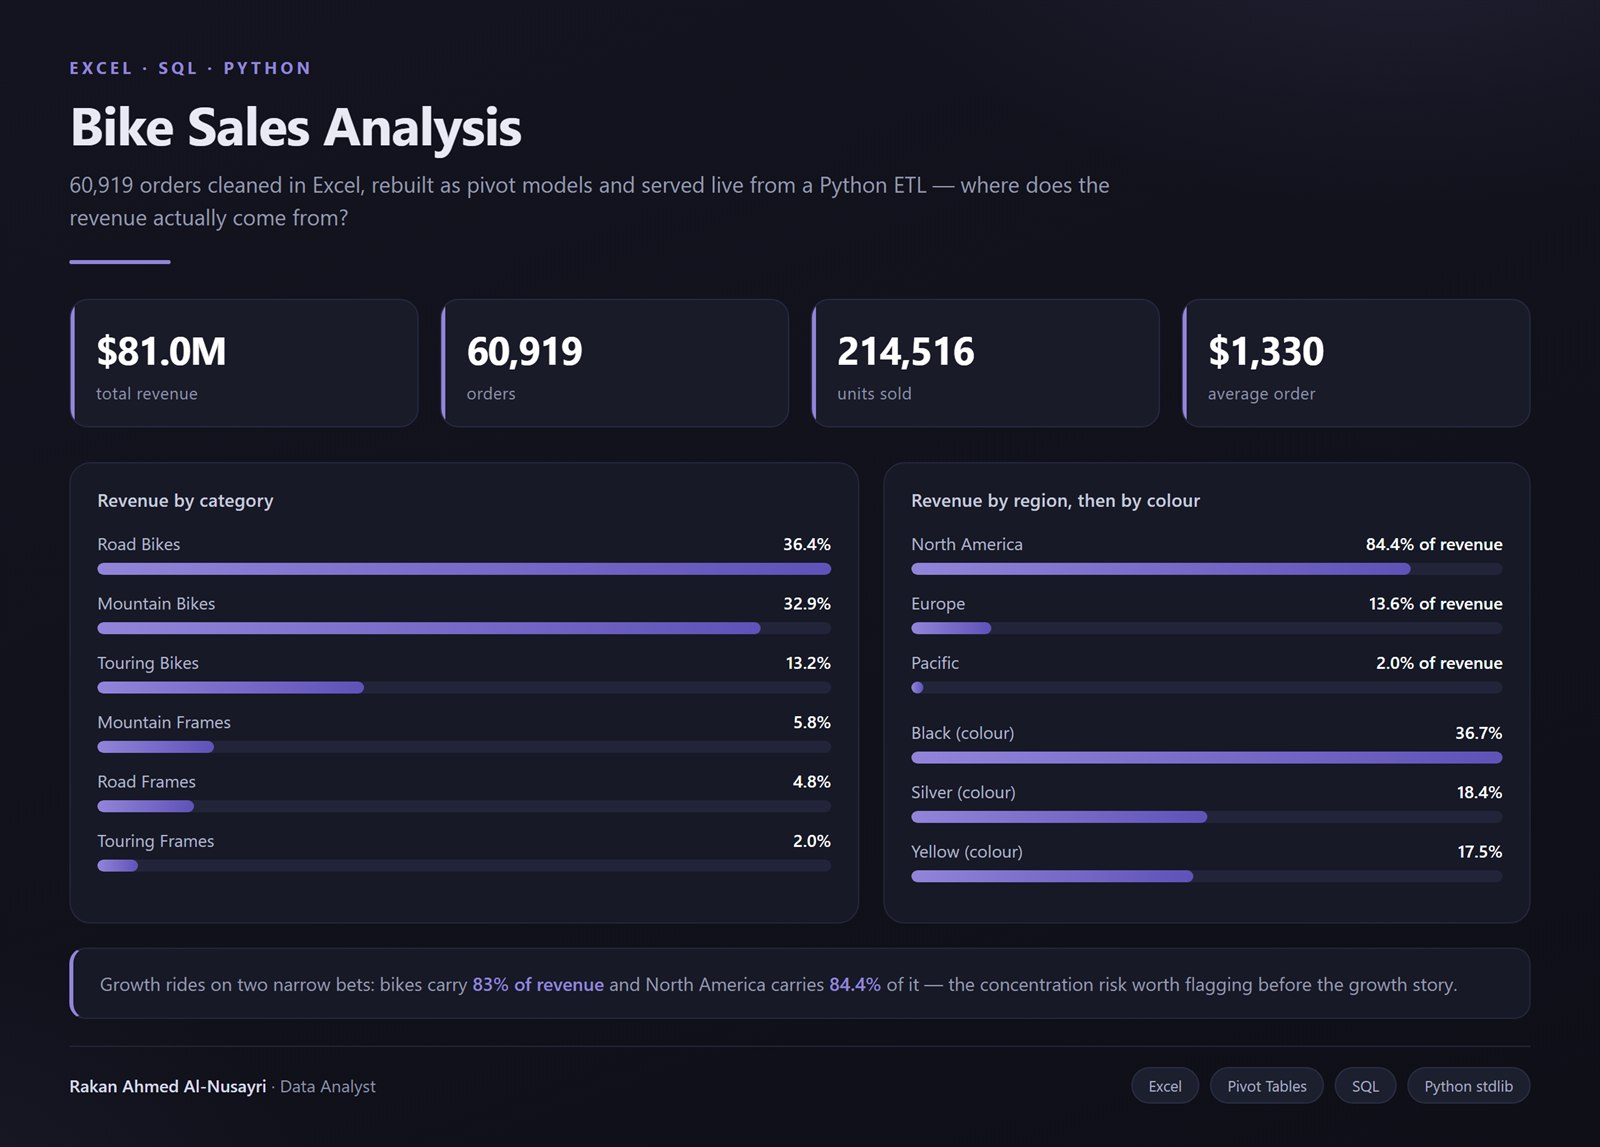
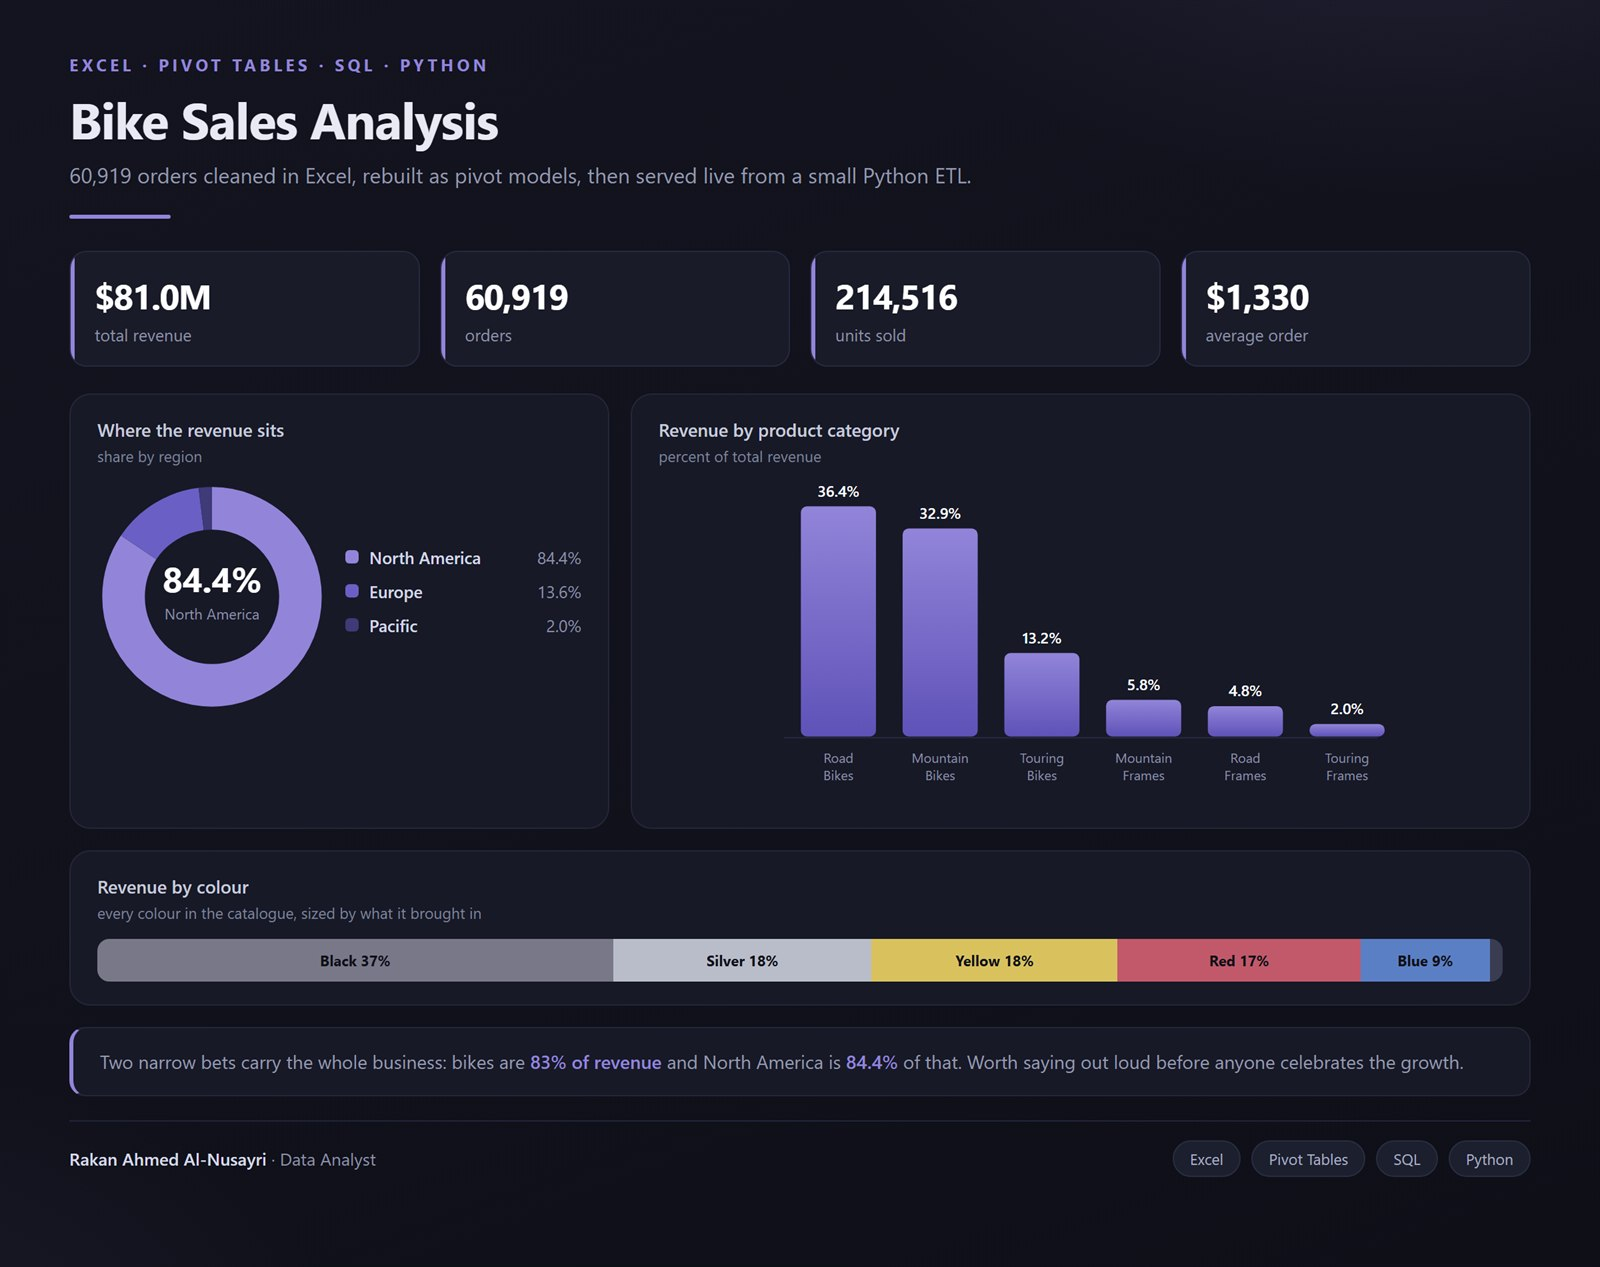
Rewrite README and rebuild the preview chart

diff --git a/README.md b/README.md
@@ -1,53 +1,59 @@
-# Bike Sales Analysis Dashboard
-
-تحليل مبيعات درّاجات — 60,919 طلبًا، من التنظيف حتى لوحة تفاعلية.
+# Bike Sales Analysis
 
 ![preview](preview.jpg)
 
-**The question:** Where does the revenue actually come from — and where is
-it dangerously concentrated?
+A bike retailer's order history — 60,919 rows — cleaned up and turned into a
+dashboard that answers one question: where does the money actually come from?
 
-**What I did:**
-- Cleaned 60,919 raw order rows in Excel (found and removed a stray "Total"
-  summary row mixed into the raw data — a common real-world data-quality bug)
-- Built pivot tables by category, region, model, and colour
-- Rebuilt the dashboard from scratch with a Python ETL script + a small
-  local API (`backend/`, standard library only) so the same numbers can
-  power a live web dashboard, not just a static Excel sheet
-- The live, filterable version of this exact dashboard is embedded in my portfolio site (not yet published — coming soon)
+## What I found
 
-**What I found:**
-| Metric | Value |
+| | |
 |---|---|
-| Total revenue | $81.0M |
+| Revenue | $81.0M |
 | Orders | 60,919 |
 | Units sold | 214,516 |
 | Average order | $1,330 |
 
-Bikes alone carry **83% of total revenue**, and North America accounts for
-**84.4%** of it — growth is currently riding on two narrow bets (one product
-line, one region), which is the headline risk worth flagging to a business
-owner reading this dashboard.
+Bikes bring in 83% of the revenue, and North America brings in 84.4% of that.
+So the business is really two bets, not a diversified catalogue. Accessories and
+clothing look busy in the order count but barely register in revenue.
 
-**Tools:** Excel (Pivot Tables, Power Query), Python (stdlib `sqlite3`),
-SQL, a small self-built HTTP API
+If I were handing this to an owner, that concentration is the first slide, not
+the growth number.
 
-## Run it yourself
+## What I did
+
+Started in Excel. The raw export had a row where the Region column said "Total"
+and the Year column said 122021530 — a summary line that had been pasted into
+the data. Left in, it inflates every total. I removed it and re-checked the
+column types before doing anything else.
+
+From there: pivot tables by category, region, model and colour, then a dashboard
+on top of them.
+
+Later I rebuilt the same numbers outside Excel. `backend/etl.py` reads the
+workbook into SQLite, and `backend/api.py` serves the aggregates over HTTP, so
+the same figures can drive a web page instead of living in one file. Both are
+standard library only — no pip install.
+
+## Run it
 
 ```bash
-python backend/etl.py     # builds the SQLite database from the Excel file
-python backend/api.py     # serves it at http://localhost:8000/api/...
+python backend/etl.py     # workbook -> SQLite
+python backend/api.py     # serves http://localhost:8000/api/...
 ```
-
-No dependencies — pure Python standard library.
 
 ## Files
 
 ```
-data/sales-dashboard.xlsx   the cleaned workbook with the rebuilt dashboard
-backend/etl.py               reads the Excel file into SQLite
-backend/api.py                small local API serving the aggregated numbers
+data/sales-dashboard.xlsx   the cleaned workbook and the dashboard
+backend/etl.py              reads the workbook into SQLite
+backend/api.py              serves the aggregated numbers
 ```
 
+## Tools
+
+Excel (pivot tables, Power Query), SQL, Python, SQLite
+
 ---
-Rakan Ahmed Al-Nusayri · [portfolio](https://github.com/RaKaN-DaTa) · rakanalnsyry8@gmail.com
+Rakan Ahmed Al-Nusayri — [github.com/RaKaN-DaTa](https://github.com/RaKaN-DaTa)
